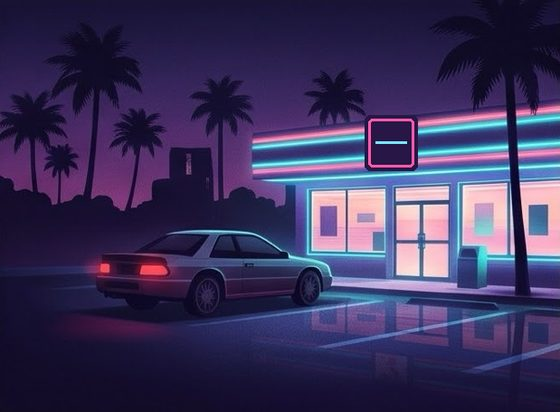
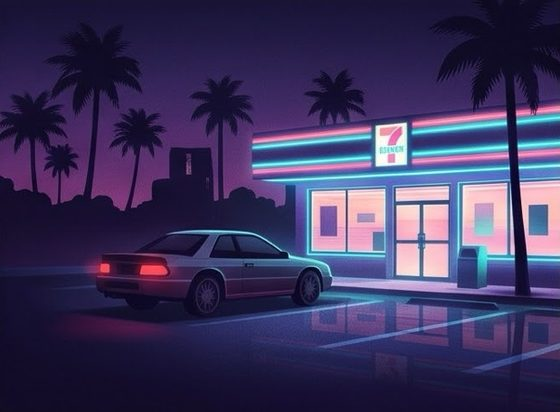
Сцена магазина — оригинал без правок
Claude-Session: https://claude.ai/code/session_011d2qcLC3ZyjGPfoXvai7JB

Changed region(s): [[0.6375, 0.2621, 0.7589, 0.4369]]

diff --git a/index.html b/index.html
@@ -9,7 +9,7 @@
   <link rel="preconnect" href="https://fonts.googleapis.com">
   <link rel="preconnect" href="https://fonts.gstatic.com" crossorigin>
   <link href="https://fonts.googleapis.com/css2?family=Manrope:wght@500;600;700;800&family=Unbounded:wght@600;700;800&display=swap" rel="stylesheet">
-  <link rel="stylesheet" href="style.css?v=10">
+  <link rel="stylesheet" href="style.css?v=11">
 </head>
 <body>
   <div id="app"><main id="screen"></main></div>
@@ -17,11 +17,11 @@
   <div id="toast" class="toast"></div>
   <div id="overlay" class="overlay hidden"></div>
 
-  <script>window.APP_VERSION = "10";</script>
-  <script src="config.js?v=10"></script>
-  <script src="data/missions.js?v=10"></script>
-  <script src="i18n/ru.js?v=10"></script>
-  <script src="i18n/en.js?v=10"></script>
-  <script src="app.js?v=10"></script>
+  <script>window.APP_VERSION = "11";</script>
+  <script src="config.js?v=11"></script>
+  <script src="data/missions.js?v=11"></script>
+  <script src="i18n/ru.js?v=11"></script>
+  <script src="i18n/en.js?v=11"></script>
+  <script src="app.js?v=11"></script>
 </body>
 </html>
